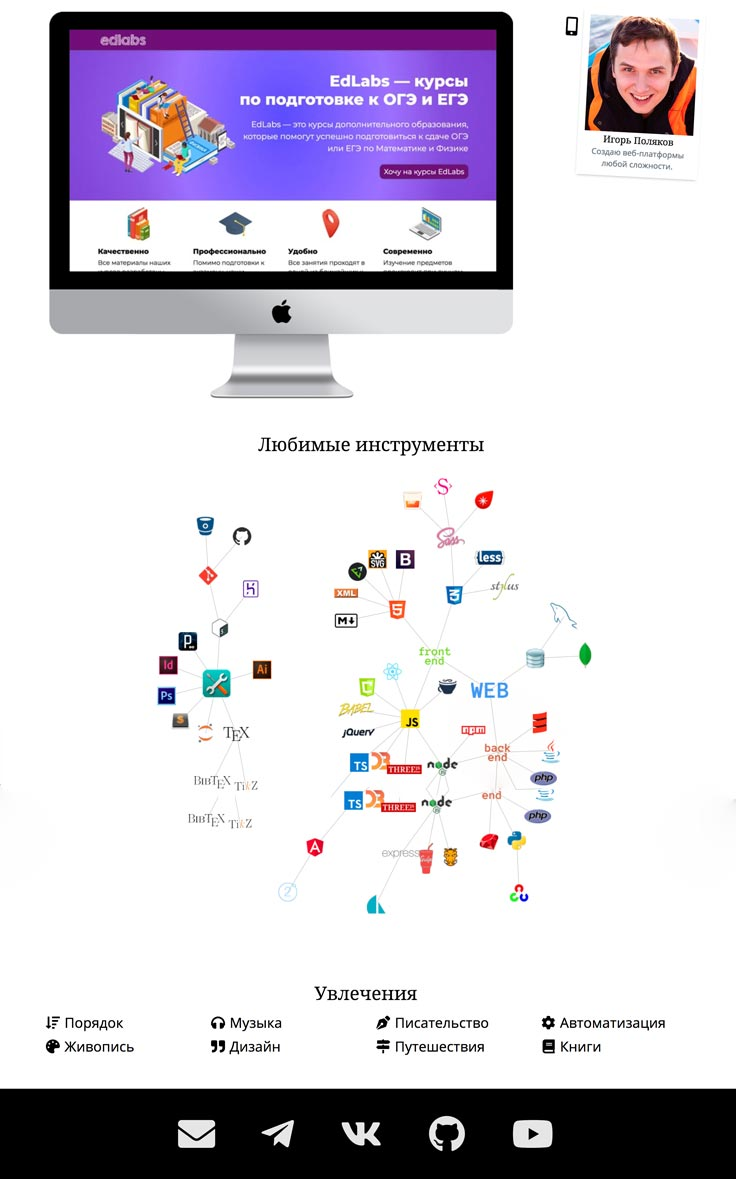
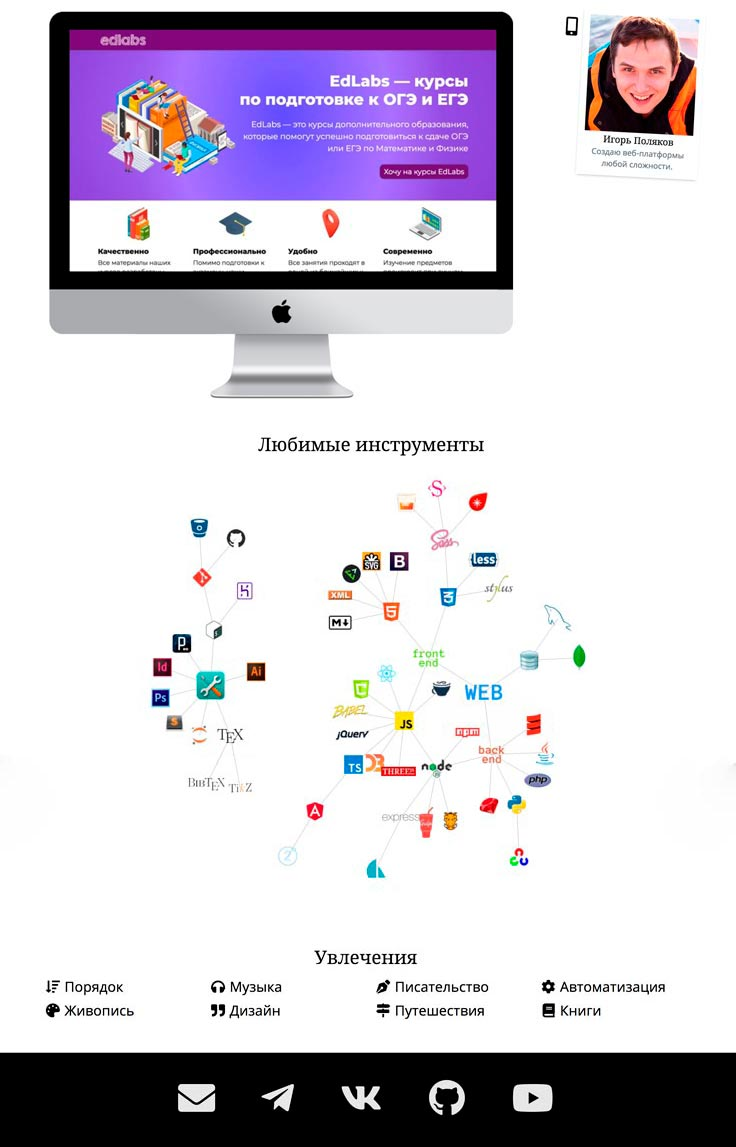
landings animation fixed

diff --git a/src/app/site/projects/projects.component.ts b/src/app/site/projects/projects.component.ts
@@ -13,10 +13,12 @@ export class ProjectsComponent implements OnInit {
   openedProject;
   videoUrl: any;
   currentWorkIndex = 0;
-  worksView;
   worksListShown = false;
-  divCV;
   selectedBest = false;
+  divCV;
+  worksView;
+  landingImage;
+  slideDuration = 5000;
 
   constructor(
     private http: HttpService,
@@ -30,12 +32,13 @@ export class ProjectsComponent implements OnInit {
         this.projects = projects;
         this.filterProjects();
       },
-      error => console.log(error)
+      error => console.error(error)
     );
 
     $(document).ready(() => {
-      this.worksView = $('.works-view');
       this.divCV = $('.cv');
+      this.worksView = $('.works-view');
+      this.landingImage = this.worksView.find('.work')[0];
 
       this.setWorksViewScale();
       $(window).resize(() => {this.setWorksViewScale()});
@@ -51,11 +54,15 @@ export class ProjectsComponent implements OnInit {
             break;
         }
       });
+
+      setTimeout(() => {
+        this.scrollTo(this.landingImage, this.slideDuration - 1000);
+      }, 100);
     });
 
     setInterval(() => {
       this.setNextProject();
-    }, 5000);
+    }, this.slideDuration);
   }
 
   setWorksViewScale() {
@@ -64,7 +71,6 @@ export class ProjectsComponent implements OnInit {
     const initialHeight = 666;
     const cvWidth = this.divCV.width();
     const windowWidth = $(window).width();
-    console.log(windowWidth);
     if (windowWidth > 1199) {
       scale = 1;
     } else if (windowWidth > 991) {
@@ -122,6 +128,10 @@ export class ProjectsComponent implements OnInit {
 
   setNextProject() {
     this.currentWorkIndex = this.currentWorkIndex < this.projectsForBanner.length - 1 ? this.currentWorkIndex + 1 : 0;
+    this.appRef.tick();
+    setTimeout(() => {
+      this.scrollTo(this.landingImage, this.slideDuration - 1000);
+    }, 100);
   }
 
   showWorksList() {
@@ -140,5 +150,42 @@ export class ProjectsComponent implements OnInit {
 
   enableScroll() {
     $("body").removeClass("modal-open");
+  }
+
+  intervals = [];
+  scrollTo(element, duration) {
+    element.scrollTop = 0;
+    const landingImage = $(element);
+    const containerHeight = landingImage.height();
+    const contentHeight = landingImage.find('img').height();
+    const endPosition = contentHeight - containerHeight;
+    const startPosition = 0;
+    const change = endPosition - startPosition;
+    let currentTime = 0;
+    const increment = 10;
+
+    let intervals = this.intervals;
+    for (let interval of intervals) {
+      if (interval) clearInterval(interval);
+    }
+    this.intervals = intervals = [];
+    animateScroll();
+
+    function animateScroll() {
+      currentTime += increment;
+      var val = easeInOutQuad(currentTime, startPosition, change, duration);
+      element.scrollTop = val;
+
+      if (currentTime < duration) {
+        intervals.push(setTimeout(animateScroll, increment));
+      }
+    };
+
+    function easeInOutQuad(t, b, c, d) {
+      t /= d/2;
+      if (t < 1) return c/2*t*t + b;
+      t--;
+      return -c/2 * (t*(t-2) - 1) + b;
+    }
   }
 }

diff --git a/src/app/site/projects/projects.component.scss b/src/app/site/projects/projects.component.scss
@@ -13,6 +13,7 @@
     width: 800px;
     height: 666px;
     background: url("../../../assets/images/imac.png") no-repeat;
+    cursor: pointer;
   }
 
   .work {
@@ -22,31 +23,13 @@
     width: 736px;
     height: 417px;
     overflow-y: scroll;
+    &::-webkit-scrollbar {
+      display: none;
+    }
 
     img {
       width: 100%;
       min-height: 100%;
-      cursor: pointer;
-    }
-  }
-
-  .arrow {
-    position: absolute;
-    top: 480px;
-    font-weight: 900;
-    font-size: 3rem;
-    cursor: pointer;
-
-    &.arrow-left {
-      left: 28px;
-    }
-
-    &.arrow-right {
-      right: 28px;
-    }
-
-    &:hover {
-      opacity: 0.5;
     }
   }
 

diff --git a/src/app/site/projects/projects.component.html b/src/app/site/projects/projects.component.html
@@ -1,8 +1,8 @@
 <div class="works-view" *ngIf="projectsForBanner.length > 0">
-  <div class="imac"></div>
   <div class="work">
-    <img [src]="'assets/images/projects/landings/' + projectsForBanner[currentWorkIndex].img" [alt]="projectsForBanner[currentWorkIndex].name" (click)="showWorksList()">
+    <img [src]="'assets/images/projects/landings/' + projectsForBanner[currentWorkIndex].img" [alt]="projectsForBanner[currentWorkIndex].name">
   </div>
+  <div class="imac" (click)="showWorksList()"></div>
   <div class="logo" (click)="toggleBest()"></div>
 </div>
 
